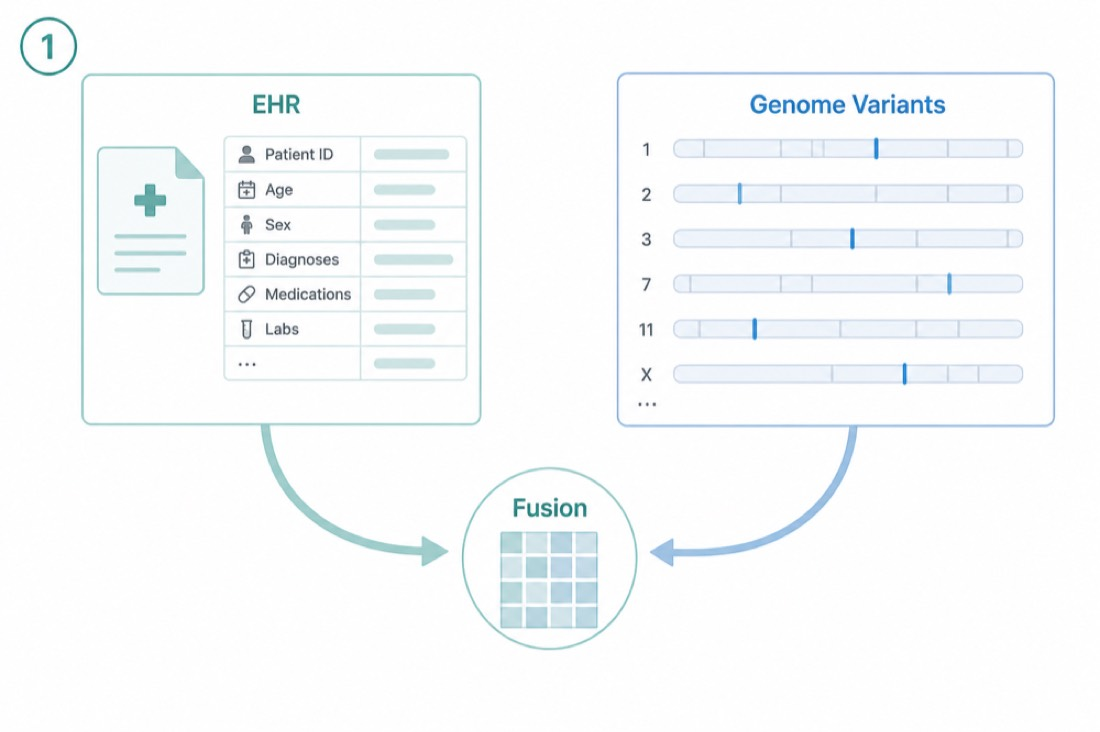
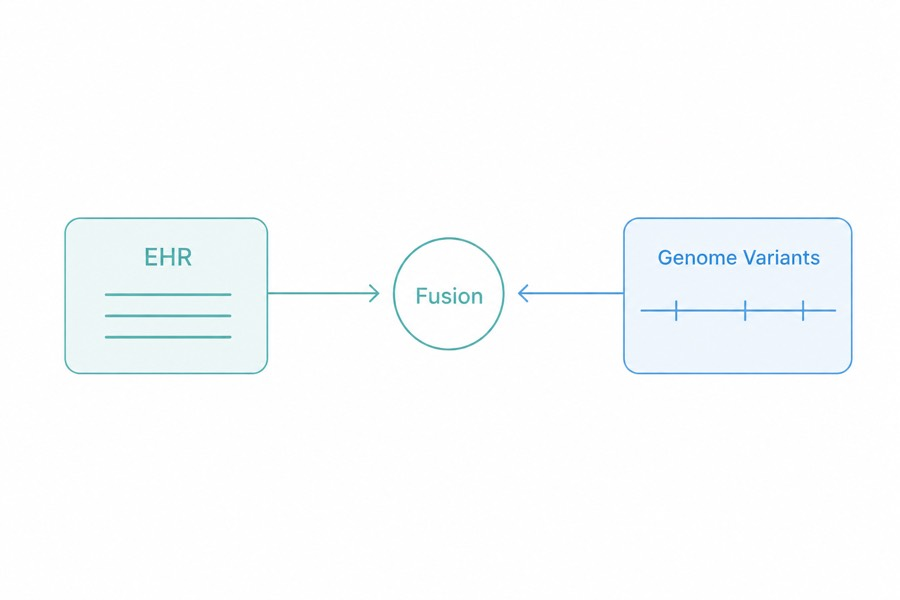
Simplify research schematics and clarify cross-modal alignment.

diff --git a/src/i18n.ts b/src/i18n.ts
@@ -67,7 +67,7 @@ export const copy = {
     aboutBody:
       'I am a PhD student in Biomedical Informatics at the University of California San Diego. My work sits at the intersection of computation, biology, and medicine—turning complex biomedical signals and records into models that support discovery and care.',
     aboutBody2:
-      'I focus on multimodal integration, foundation-model alignment for continuous biomedical signals, and embedding models with devices in real clinical and research settings.',
+      'I focus on multimodal integration, foundation-model alignment across EHR and genome modalities, and embedding models with devices in real clinical and research settings.',
     educationTitle: 'Education',
     education: [
       {
@@ -91,7 +91,7 @@ export const copy = {
       },
       {
         title: 'Foundation model alignment',
-        body: 'Aligning foundation models and adapting them to continuous biomedical data streams and longitudinal signals.',
+        body: 'Aligning foundation models across modalities—especially EHR and genome variants—so heterogeneous clinical and genomic information can be represented in a shared space.',
         figure: '/figures/research-2.jpg',
       },
       {
@@ -127,7 +127,7 @@ export const copy = {
     aboutBody:
       '我是加州大学圣地亚哥分校（UC San Diego）生物医学信息学（Biomedical Informatics）博士生。研究位于计算、生物学与医学的交汇处，致力于将复杂的生物医学信号与记录转化为能够支持科学发现与临床实践的模型。',
     aboutBody2:
-      '当前关注多模态整合、面向连续数据的基础模型对齐，以及模型与设备/装置的嵌入与整合。',
+      '当前关注多模态整合、EHR 与基因组模态之间的基础模型对齐，以及模型与设备/装置的嵌入与整合。',
     educationTitle: '教育经历',
     education: [
       {
@@ -151,7 +151,7 @@ export const copy = {
       },
       {
         title: '基础模型对齐',
-        body: '对 Foundational Model 进行对齐，并应用于连续型生物医学数据与时序信号。',
+        body: '对 Foundational Model 进行跨模态对齐，尤其关注 EHR 与基因组变异之间的共享表征学习。',
         figure: '/figures/research-2.jpg',
       },
       {

diff --git a/src/index.css b/src/index.css
@@ -457,10 +457,10 @@ button {
 
 .interest {
   display: grid;
-  grid-template-columns: minmax(0, 1.05fr) minmax(0, 0.95fr);
-  gap: 1rem 1.35rem;
+  grid-template-columns: minmax(0, 1.2fr) minmax(0, 0.8fr);
+  gap: 0.75rem 1.1rem;
   align-items: center;
-  padding: 0.85rem 0;
+  padding: 0.65rem 0;
   border-top: 1px solid var(--line);
 }
 
@@ -473,7 +473,7 @@ button {
 }
 
 .interest__title {
-  margin: 0 0 0.3rem;
+  margin: 0 0 0.25rem;
   font-size: 1.02rem;
   font-weight: 650;
   color: var(--teal);
@@ -483,19 +483,26 @@ button {
   margin: 0;
   max-width: none;
   color: var(--ink-mid);
-  line-height: 1.55;
-  font-size: 0.96rem;
+  line-height: 1.5;
+  font-size: 0.95rem;
 }
 
 .interest__figure {
   margin: 0;
+  display: flex;
+  align-items: center;
+  justify-content: center;
+  max-height: 118px;
 }
 
 .interest__figure img {
   display: block;
   width: 100%;
+  max-height: 118px;
   height: auto;
-  border-radius: 8px;
+  object-fit: contain;
+  object-position: center;
+  border-radius: 6px;
   border: 1px solid var(--line);
   background: #fff;
 }
@@ -659,7 +666,8 @@ button {
   .research-figure,
   .interest__figure {
     position: static;
-    max-width: 420px;
+    max-width: 360px;
+    max-height: 110px;
     margin-inline: auto;
   }
 
